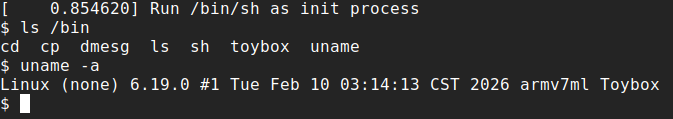
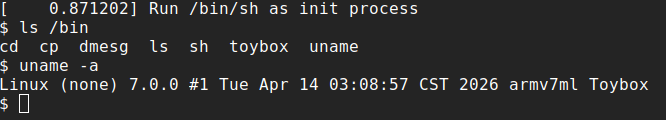
Migrate to Linux 7.0

diff --git a/README.md b/README.md
@@ -1,7 +1,7 @@
 # Linux on STM32H750
 > My note: https://hackmd.io/@rota1001/stm32h750-linux
 
-In this project, I successfully run **Linux 6.19** on STM32H750, which only has **1MB of RAM**, and run toybox with uClibc support.
+In this project, I successfully run **Linux 7.0** on STM32H750, which only has **1MB of RAM**, and run toybox with uClibc support.
 
 <img src="./image.png" >
 
@@ -54,10 +54,10 @@ Here is the process:
   ```
 - Get kernel source and patch it
   ```
-  wget https://cdn.kernel.org/pub/linux/kernel/v6.x/linux-6.19.tar.xz
-  tar xvf linux-6.19.tar.xz
-  cd linux-6.19
-  patch -p1  < ../linux-6.19.patch
+  wget https://cdn.kernel.org/pub/linux/kernel/v7.x/linux-7.0.tar.xz
+  tar xvf linux-7.0.tar.xz
+  cd linux-7.0
+  patch -p1  < ../linux-7.0.patch
   ```
 - Build the kernel
   ```
